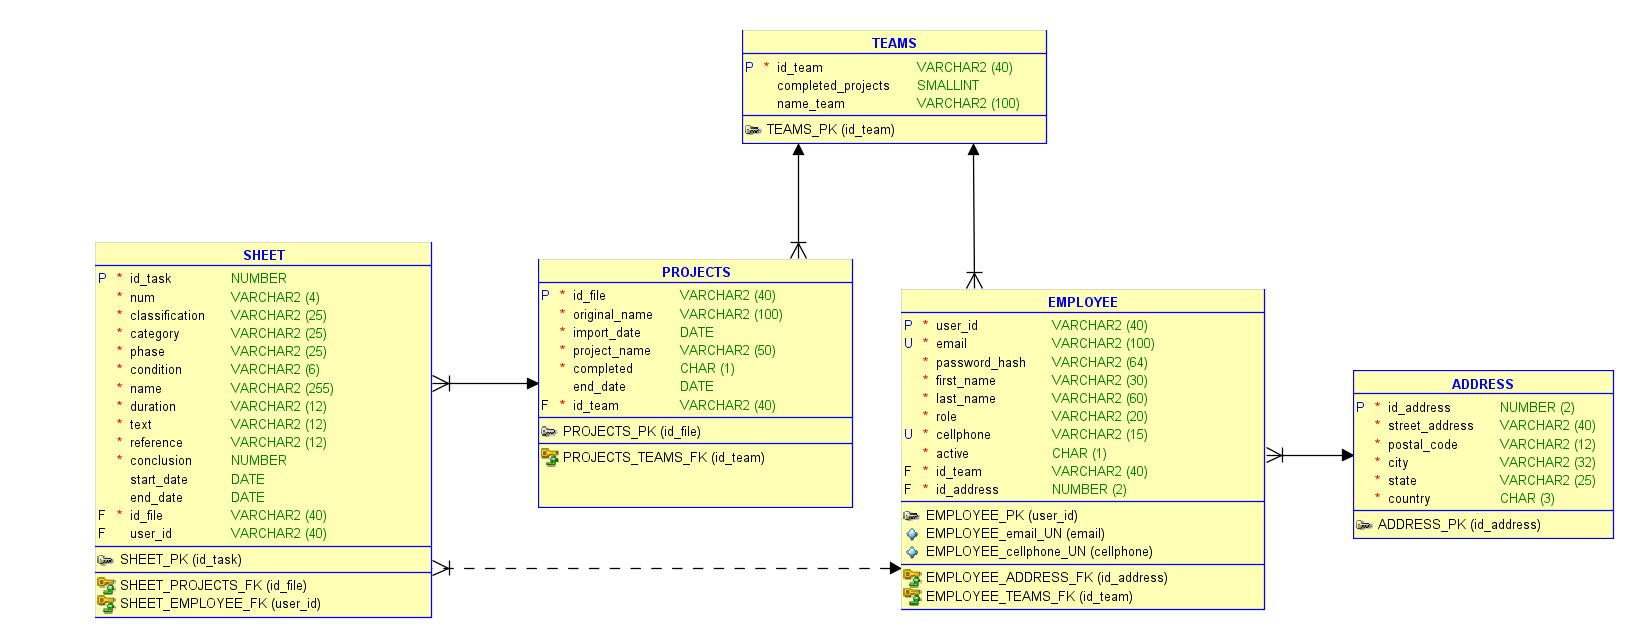
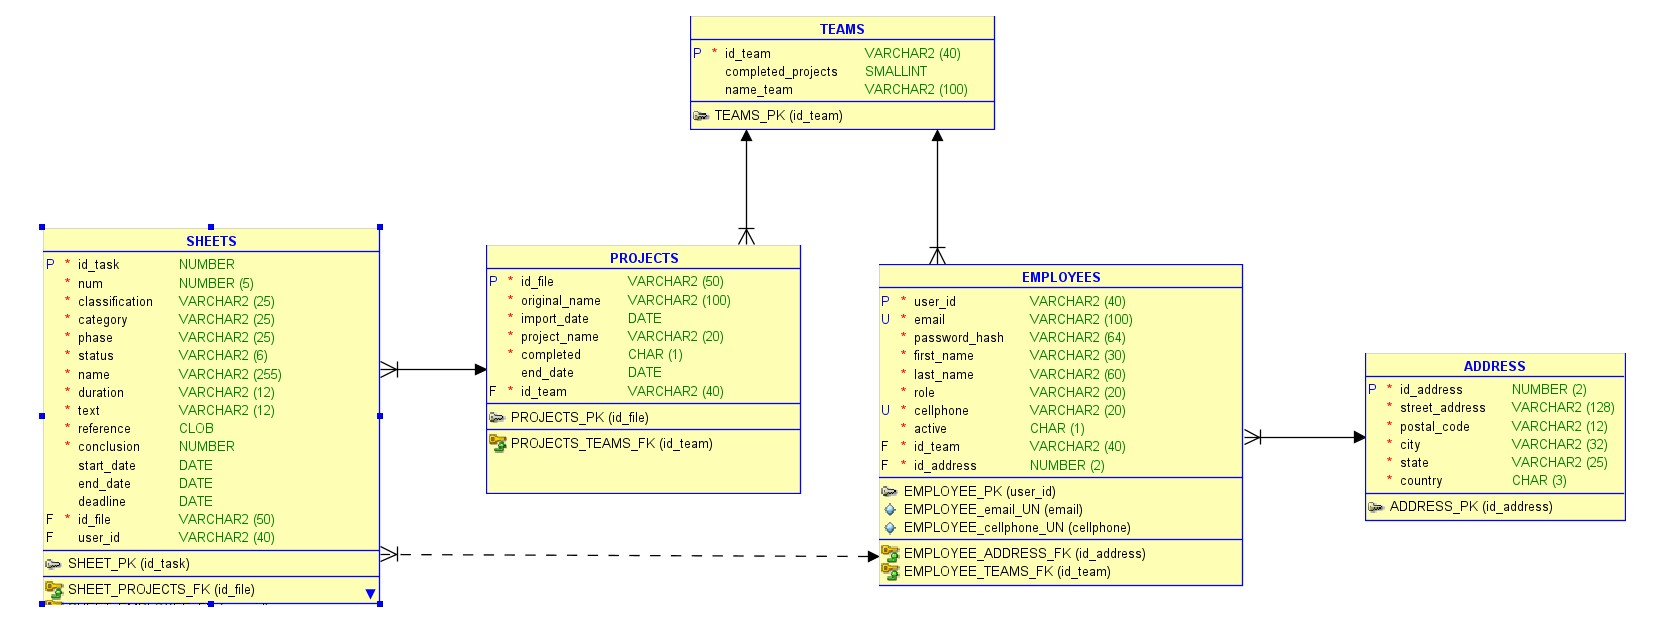
Adicionei o sistema de buscar os doc. referência

diff --git a/chatbotV8/handle_demands.py b/chatbotV8/handle_demands.py
@@ -1,3 +1,4 @@
+from .ocr_reference import extract_text_from_image, normalize_url
 from backend.from_to_mysql import from_mysql_extrair
 import google.generativeai as genai
 from .handle_tasks import add_task
@@ -11,7 +12,8 @@ import os
 import re
 
 diretorio = Path(__file__).resolve().parent.parent
-caminho_arquivos = diretorio / "backend" / "uploads"
+caminho_arquivos = diretorio / "backend" / "dados"
+caminho_arquivos.mkdir(parents=True, exist_ok=True)
 
 # Configurar a API do Gemini
 genai.configure(api_key=os.environ.get("GOOGLE_API_KEY"))
@@ -48,6 +50,8 @@ def demands(processo: str, mensagem: str, usuario: str, *args: str) -> str:
             return add_event(mensagem)
         case 8:
             return how_to_do(mensagem, usuario)
+        case 9:
+            return send_email(mensagem, usuario)
         case _:
             return "Desculpe, não sei como lidar com essa solicitação."
 
@@ -125,7 +129,7 @@ def my_tasks(mensagem, usuario) -> str:
     return resposta
 
 
-def how_to_do(mensagem: str, usuario: str) -> str:
+def how_to_do(mensagem: str, usuario: str, local: bool = False) -> str:
     # Exemplo de mensagem: "Como faço a tarefa 4 do projeto 1?"
     # Extrai a tarefa e o projeto da mensagem
     tarefa = re.search(r'tarefa (\d+)', mensagem)
@@ -154,50 +158,112 @@ def how_to_do(mensagem: str, usuario: str) -> str:
         texto_ref = texto[0]['text']
 
         if not texto_ref:
-            return f"Desculpe, não consegui encontrar as instruções para a tarefa {task}."
+            return f"Desculpe, não consegui encontrar as instruções para a tarefa '{task}'."
     else:
-        return f"Desculpe, não consegui encontrar as instruções para a tarefa {task}."
+        return f"Desculpe, não consegui encontrar as instruções para a tarefa '{task}'."
 
     """ Esse trecho está funcionando para PDFs armazenados localmente. Quando resolver o problema de
     acesso do SharePoint, deve ser adaptado para baixar o arquivo do SharePoint e depois ler o PDF. """ 
 
-    # Carregar o caminho do arquivo PDF
-    # TODO: Implementar o download do PDF do SharePoint
-    arquivo_pdf = caminho_arquivos / f"Doc.Teste.pdf"
+    if not local:
+        link: list[dict] = consultaSQL(
+            'SELECT', 'SHEETS',
+            where={'num': task, 'project_name': proj},
+            campo={'JOIN ON': ['PROJECTS', 'id_file']},
+            colunas_dados={
+                'reference': None
+            }
+        )
 
-    # Buscar no PDF o texto referência, por exemplo, 'texto.2'
-    # Usar o pypdf para extrair o texto do PDF e procurar pelo texto referência
-    with pypdf.PdfReader(str(arquivo_pdf)) as pdf:
-        texto_extraido = ""
+        if link:
+            pdf_link = link[0]['reference']
+        else:
+            return f"Desculpe, não consegui encontrar o link do documento para a tarefa {task}."
+
+        if not pdf_link.startswith('http'):
+            return f"Desculpe, o hyperlink do documento referência para a tarefa '{task}' do projeto '{proj}' é inválido. 😓"
+
+        # Buscar se existe o arquivo .txt correspondente ao PDF na pasta de uploads
+        arquivo_txt = caminho_arquivos / f"{normalize_url(pdf_link)}.txt"
+
+        if not arquivo_txt.exists():
+            # Adicionar essa mensagem no começo da resposta
+            resposta = f"Desculpe a demora, eu não tinha o arquivo em memória. 💾 Para facilitar as próximas consulta do projeto '{proj}', eu já processei o PDF e extraí o texto. 📝\n\n"
+            resposta += f"Para fazer a tarefa '{task}' do projeto '{proj}', siga as instruções abaixo:\n\n"
+
+            extract_text_from_image(pdf_link)
         
-        for pagina in pdf.pages:
-            texto_extraido += (pagina.extract_text() or "") + "\n"
-    
-    match_ref = re.search(r'texto\.?\s*(\d+)', texto_ref, flags=re.IGNORECASE)
-    
-    if not match_ref:
-        return f"Desculpe, o texto de referência '{texto_ref}' é inválido."
-    ref_num = match_ref.group(1)
+        with open(arquivo_txt, "r", encoding="utf-8") as f:
+            texto_extraido = f.read()
 
-    # Procurar o texto referência no texto extraído
-    # Deve parar quando encontrar o próximo texto referência ou o final do documento
-    texto_pattern = rf"(?is)\btexto\.?\s*{ref_num}\s*[:.]?\s*(.*?)(?=\btexto\.?\s*\d+\s*[:.]?|\Z)"
-    match = re.search(texto_pattern, texto_extraido)
-    
-    if match:
-        instrucoes = match.group(1).strip().lower().replace('\n', ' ').split('.')
+        # Processar o texto extraído para encontrar as instruções
+        match_ref = re.search(r'texto\.?\s*(\d+)', texto_ref, flags=re.IGNORECASE)
+        
+        if not match_ref:
+            return f"Desculpe, o texto de referência '{texto_ref}' é inválido."
+        ref_num = match_ref.group(1)
+
+        texto_pattern = rf"(?is)\btexto\.?\s*{ref_num}\s*[:.]?\s*(.*?)(?=\btexto\.?\s*\d+\s*[:.]?|\Z)"
+        match = re.search(texto_pattern, texto_extraido)
+
+        if match:
+            instrucoes = match.group(1).strip().lower().replace('\n', ' ').split('.')
+        else:
+            return f"Desculpe, não consegui encontrar as instruções para a tarefa '{task}' no documento."
+
+        print('Instruções encontradas:', instrucoes)
+
+        for instrucao in instrucoes:
+            if instrucao.strip() in ['.', '', ' ']:
+                continue
+            
+            resposta += f"• {instrucao.strip().capitalize()}.\n"
+
     else:
-        return f"Desculpe, não consegui encontrar as instruções para a tarefa {task} no documento."
+        # Exemplo de uso do pypdf para ler um arquivo PDF localmente
+        print(f"\nBuscando instruções no arquivo local para a tarefa '{task}'...\n")
 
-    print('Instruções encontradas:', instrucoes)
+        # Carregar o caminho do arquivo PDF
+        arquivo_pdf = caminho_arquivos / f"Doc.Teste.pdf"
 
-    for instrucao in instrucoes:
-        if instrucao.strip() in ['.', '', ' ']:
-            continue
+        # Buscar no PDF o texto referência, por exemplo, 'texto.2'
+        # Usar o pypdf para extrair o texto do PDF e procurar pelo texto referência
+        with pypdf.PdfReader(str(arquivo_pdf)) as pdf:
+            texto_extraido = ""
+            
+            for pagina in pdf.pages:
+                texto_extraido += (pagina.extract_text() or "") + "\n"
         
-        resposta += f"• {instrucao.strip().capitalize()}.\n"
+        match_ref = re.search(r'texto\.?\s*(\d+)', texto_ref, flags=re.IGNORECASE)
+        
+        if not match_ref:
+            return f"Desculpe, o texto de referência '{texto_ref}' é inválido."
+        ref_num = match_ref.group(1)
+
+        # Procurar o texto referência no texto extraído
+        # Deve parar quando encontrar o próximo texto referência ou o final do documento
+        texto_pattern = rf"(?is)\btexto\.?\s*{ref_num}\s*[:.]?\s*(.*?)(?=\btexto\.?\s*\d+\s*[:.]?|\Z)"
+        match = re.search(texto_pattern, texto_extraido)
+        
+        if match:
+            instrucoes = match.group(1).strip().lower().replace('\n', ' ').split('.')
+        else:
+            return f"Desculpe, não consegui encontrar as instruções para a tarefa '{task}' no documento."
+
+        print('Instruções encontradas:', instrucoes)
+
+        for instrucao in instrucoes:
+            if instrucao.strip() in ['.', '', ' ']:
+                continue
+            
+            resposta += f"• {instrucao.strip().capitalize()}.\n"
 
     return resposta
+
+
+def send_email(mensagem: str, usuario: str) -> str:
+    pass
+
 
 def helping(assunto: str) -> str:
     # Fornece ajuda sobre como usar o chatbot

diff --git a/chatbotV8/ocr_reference.py b/chatbotV8/ocr_reference.py
@@ -1,0 +1,72 @@
+from selenium.webdriver.chrome.options import Options
+from selenium import webdriver
+from pathlib import Path
+from PIL import Image
+import pytesseract
+import time
+
+""" Script para capturar uma screenshot de uma página web e extrair texto dela usando OCR. 
+    Requisitos:
+    - Instalar o Tesseract OCR:
+    - Windows: https://github.com/UB-Mannheim/tesseract/wiki
+    - Após a instalação, adicione o caminho do executável do Tesseract à variável de ambiente PATH.
+    
+    - Instalar as bibliotecas Python necessárias:
+    pip install selenium pillow pytesseract"""
+
+# Caminho para o Tesseract
+pytesseract.pytesseract.tesseract_cmd = r"C:\Program Files\Tesseract-OCR\tesseract.exe"
+
+BASE_DIR = Path(__file__).resolve().parent.parent
+OUTPUT_DIR = BASE_DIR / "backend" / "dados"
+OUTPUT_DIR.mkdir(parents=True, exist_ok=True)
+
+def get_screenshot(url: str) -> str:
+    """ Captura uma screenshot da página web na URL fornecida e salva como imagem. """
+    # Configurar o Selenium WebDriver para usar o Chrome em modo headless
+    options = Options() # Configurações do Chrome
+    options.add_argument("--headless=new") # Executa o Chrome em modo headless (sem interface gráfica)
+    options.add_argument("--window-size=1920,1080") # Define o tamanho da janela para capturar a screenshot completa
+
+    driver = webdriver.Chrome(options=options) # Inicializa o WebDriver do Chrome
+    driver.get(url) # Navega até a URL fornecida
+
+    time.sleep(10)  # Espera a página carregar completamente
+    
+    # TODO: Salvar o nome da screenshot como o link do arquivo
+    # E fazer verificação se a imagem com o esse nome já existe
+    # Se não existir, salvar a imagem
+    # Se existir, abre a imagem existente
+
+    screenshot_path = OUTPUT_DIR / f"{normalize_url(url)}.png" # Caminho para salvar a screenshot
+    driver.save_screenshot(str(screenshot_path)) # Captura e salva a screenshot
+    driver.quit() # Fecha o navegador
+    
+    return str(screenshot_path)
+
+def extract_text_from_image(url: str) -> None:
+    """ Extrai texto de uma imagem usando OCR e salva em um arquivo .txt. """
+    # Capturar a screenshot da página web
+    image_path = get_screenshot(url)
+
+    # Usar o pytesseract para extrair texto da imagem
+    texto = pytesseract.image_to_string(Image.open(image_path), lang="por").strip()
+    
+    print("\nTexto extraído da imagem:\n")
+    print(texto)
+
+    # Salvar o texto extraído em um arquivo .txt
+    out_txt = OUTPUT_DIR / f"{normalize_url(url)}.txt"
+    with open(out_txt, "w", encoding="utf-8") as f:
+        f.write(texto)
+
+    # Depois de extrair o texto, removemos a imagem para economizar espaço
+    #Path(image_path).unlink() # Descomentar, faz com que a imagem seja deletada após o processamento
+
+def normalize_url(url: str) -> str:
+    return url.replace('https:', '').replace('|', '_').replace('/', '_').replace(':', '_').replace('<', '_').replace('>', '_').replace('?', '_').replace('*', '_').replace('""', '_')
+
+if __name__ == '__main__':
+    url = "https://fiapcom-my.sharepoint.com/:b:/g/personal/pf1226_fiap_com_br/EWnpZhJcRwhGv0aAy495KrwBPZEVNaURjCEbzHaOPPXMfg?e=qFrarv"
+    screenshot_path = get_screenshot(url)
+    extract_text_from_image(screenshot_path)

diff --git a/backend/auth.py b/backend/auth.py
@@ -38,12 +38,8 @@ def login():
 
     users_db: dict = consulta_db(email)   # Consulta o banco de dados pelo email
 
-    print(f"\nUsuários encontrados: {users_db}\n")
-
     if users_db:
         user_dados: dict = users_db[0]   # Verifica se o email existe no banco de dados
-        
-        print(f"Dados do usuário para {email}: {user_dados}")
 
         # Verifica se a senha está correta
         same = checkPassword(password, user_dados['password_hash'])

diff --git a/chatbotV8/handle_tasks.py b/chatbotV8/handle_tasks.py
@@ -210,7 +210,7 @@ def add_task(mensagem: str) -> str:
                     "phase": fase,
                     "status": condicao.replace(".", "").strip().lower().capitalize(),
                     "name": tarefa.capitalize(),
-                    "duration": duracao,
+                    "duration": duracao.replace(' dias', ''),
                     "text": "Texto."+str(num),
                     "reference": "Doc."+str(num),
                     "conclusion": 0

diff --git a/backend/db.py b/backend/db.py
@@ -22,9 +22,6 @@ database = os.environ.get("DATABASE")
 db_url = f"mysql+mysqlconnector://{user}:{password}@{host}:{port}/{database}"
 ENGINE = create_engine(db_url)
 
-class Database:
-    def __init__(self):
-        pass
 
 def consultaSQL(tipo: str, tabela: str, where: dict[str, Any] = None, colunas_dados: dict[str, Any] = {}, campo: dict[str, str | int] = None, where_especial: dict[str, str | list] = None) -> dict | None:
     """

diff --git a/backend/files.py b/backend/files.py
@@ -549,6 +549,9 @@ def update_add_row(id_file: str, num: int):
         else:
             print(f"Atualizando linha {num} do arquivo {id_file} com: {update_args}")
 
+            if 'duration' in update_args:
+                update_args['duration'] = update_args['duration'].replace(' dias', '')
+
             # Executa o UPDATE na linha alvo (chave: id_file + num atual)
             consultaSQL(
                 'UPDATE', 'SHEETS', 
